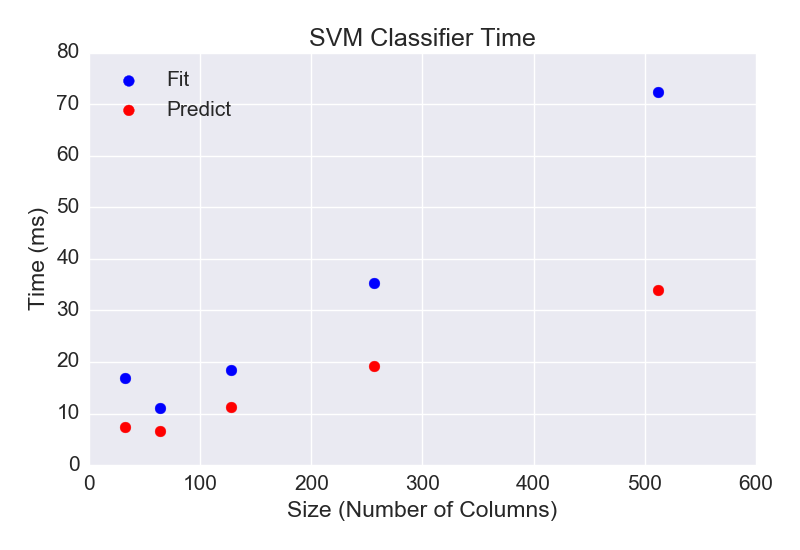
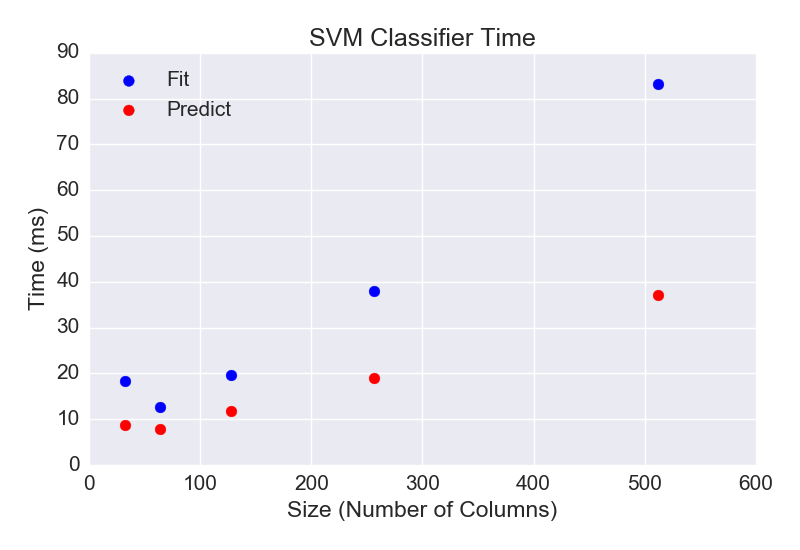
add multiple classifier speed tests

diff --git a/speed_test.py b/speed_test.py
@@ -21,14 +21,13 @@ def get_datadir():
     return "data/UCI_HAR_Dataset/"
 
 def get_plotdir():
-    "get plot directory"
+    "get plot directory, set seaborn plot params"
+    sns.set_style("darkgrid")
+    sns.set_context("notebook", font_scale=1.5)
     return 'speed_plots/'
 
 def make_plotdir():
     "make plot directory on file system"
-    sns.set_style("darkgrid")
-#    sns.set_context("talk")
-    sns.set_context("notebook", font_scale=1.5)
     plotdir = get_plotdir()  # add plotdir arg
     if not os.access(plotdir, os.F_OK):
         os.mkdir(plotdir)
@@ -202,6 +201,7 @@ def time_fit_predict_array(clf, dftrain, dftrain_y, axis=0, fixed=4, arr=[16,8,4
     if axis==1:
         for col in arr:
 #            numc = int(num * col / min(arr))    # num calc
+        # increase rp instead of num??
             # from timing, not linear, maybe quadratic, depends on clf
             tfit, tpred, shape = time_size_fit_predict(clf, dftrain, dftrain_y, rowf=fixed, colf=col, num=numc, var=var)
             fits.append(tfit)
@@ -226,17 +226,34 @@ def print_time_results(result):
 def plot_time_results(result, app, label, plotdir):
     plt.clf()
     xs = [e[result['axis']] for e in result['shape']]
-    plt.scatter(xs, result['fit'], s=60, c="blue", edgecolors="face")  # s=30
-    plt.scatter(xs, result['pred'], s=60, c="red", edgecolors="face")
-#    plt.ylim(0, ymax)  # how to find ymax
+    plt.scatter(xs, result['fit'], c="blue", edgecolors="face", s=60)
+    plt.scatter(xs, result['pred'], c="red", edgecolors="face", s=60)
+    x1, x2, y1, y2 = plt.axis()
+    plt.axis((0, x2, 0, y2))     # set minx, miny = 0
     plt.legend(['Fit', 'Predict'], loc='upper left')
     plt.title(app+" Classifier Time")
     axis = 'Columns' if result['axis']==1 else 'Rows'
     plt.xlabel("Size (Number of "+axis+")")
     plt.ylabel("Time (ms)")
-#    plt.figure(figsize=(8, 6))
     plt.tight_layout()
     plt.savefig(plotdir + "time_" + label + ".png")
+
+def init_data():
+    datadir = get_datadir()
+    dftrain, dftrain_y = read_train_data(datadir)
+    return dftrain, dftrain_y
+
+def speed_test_medium(clf, dftrain, dftrain_y, atitle, afile, plotdir):
+    print("\nstarting medium-size speed test with %s" % atitle)
+    
+    nn = 10
+    result = time_fit_predict_array(clf, dftrain, dftrain_y, axis=1, fixed=4, num=nn, var='TF')
+    print_time_results(result)
+    plot_time_results(result, atitle, "medium_columns_"+afile, plotdir)
+    
+    result = time_fit_predict_array(clf, dftrain, dftrain_y, axis=0, fixed=4, num=nn)
+    print_time_results(result)
+    plot_time_results(result, atitle, "medium_rows_"+afile, plotdir)
 
 def main():
     datadir = get_datadir()
@@ -279,12 +296,12 @@ def main():
     print_time_results(result)
     plot_time_results(result, "SVM", "large_rows_svm", plotdir)
     
-    result = time_fit_predict_array(clf, dftrain, dftrain_y, axis=1, fixed=4, num=nn, var='Y')
-    print_time_results(result)
-    plot_time_results(result, "SVM", "medium_columnsY_svm", plotdir)
+#    result = time_fit_predict_array(clf, dftrain, dftrain_y, axis=1, fixed=4, num=nn, var='Y')
+#    print_time_results(result)
+#    plot_time_results(result, "SVM", "medium_columnsY_svm", plotdir)
     
-# to do: increase num and rp for smaller datasets?  try rp=10?
-    # fix plot limits
+# to do: for smaller datasets, increase num (done).  
+    # for smaller datasets, try scaling rp or rp=10?
     # use test data for predict
     # add more classifiers
     # try six-way classifier (done, ~10 times slower at first glance)

diff --git a/clf_speed.py b/clf_speed.py
@@ -1,0 +1,49 @@
+# -*- coding: utf-8 -*-
+
+from sklearn.linear_model import LogisticRegression as lr
+from sklearn.naive_bayes import GaussianNB as gnb
+from sklearn import svm
+
+from speed_test import init_data, make_plotdir, speed_test_medium
+
+def logistic_regression_speed_test():
+    atitle = 'Logistic Regression'
+    afile = 'logreg'
+    plotdir = make_plotdir()
+    dftrain, dftrain_y = init_data()    
+    clf = lr()
+    speed_test_medium(clf, dftrain, dftrain_y, atitle, afile, plotdir)
+
+def naive_bayes_speed_test():
+    atitle = 'Naive Bayes'
+    afile = 'nbayes'
+    plotdir = make_plotdir()
+    dftrain, dftrain_y = init_data()    
+    clf = gnb()
+    speed_test_medium(clf, dftrain, dftrain_y, atitle, afile, plotdir)
+
+def linear_svm_speed_test():
+    atitle = 'Linear SVM'
+    afile = 'linsvm'
+    plotdir = make_plotdir()
+    dftrain, dftrain_y = init_data()    
+    clf = svm.LinearSVC()
+    speed_test_medium(clf, dftrain, dftrain_y, atitle, afile, plotdir)
+
+def svm_speed_test():
+    atitle = 'SVM'
+    afile = 'svm'
+    plotdir = make_plotdir()
+    dftrain, dftrain_y = init_data()    
+    clf = svm.SVC(kernel='linear', C=1, cache_size=1000)
+    speed_test_medium(clf, dftrain, dftrain_y, atitle, afile, plotdir)
+
+def main():
+    logistic_regression_speed_test()
+    naive_bayes_speed_test()
+    linear_svm_speed_test()
+    svm_speed_test()
+
+if __name__ == '__main__':
+    main()
+
